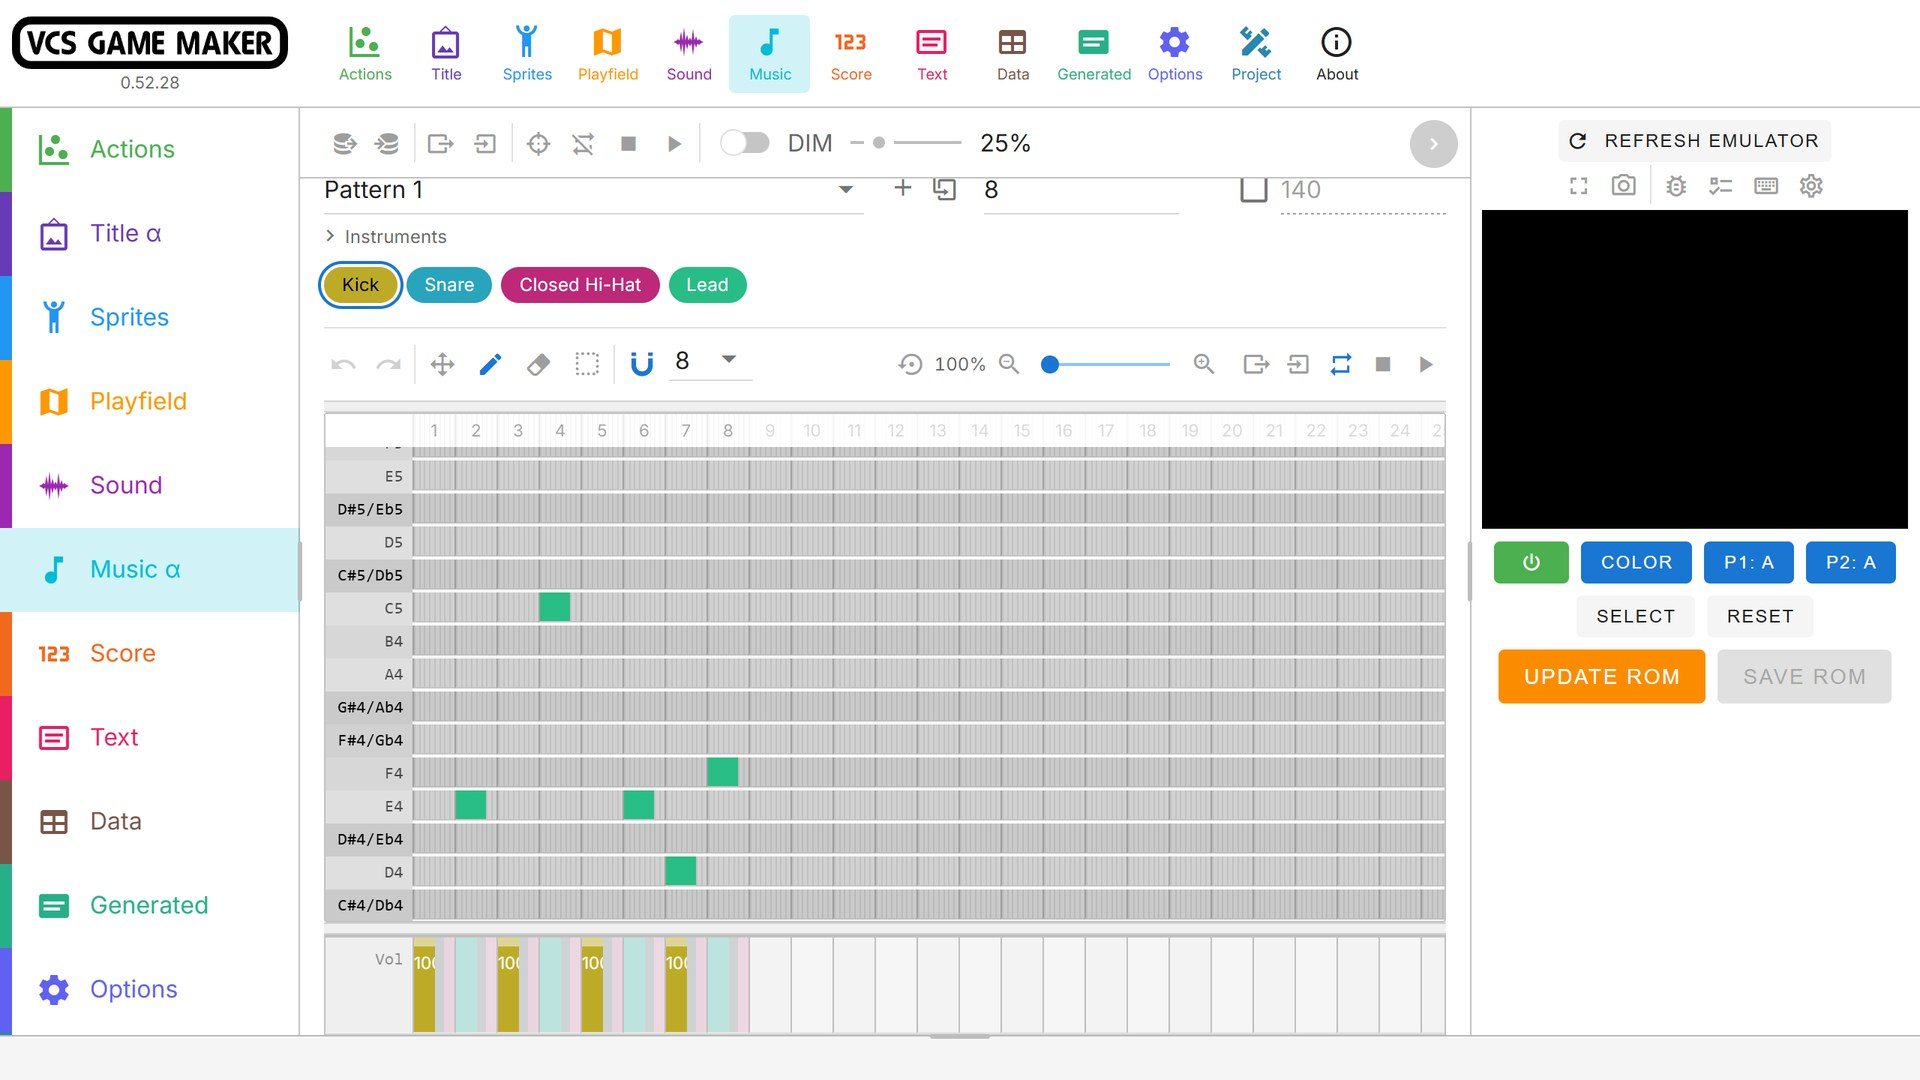
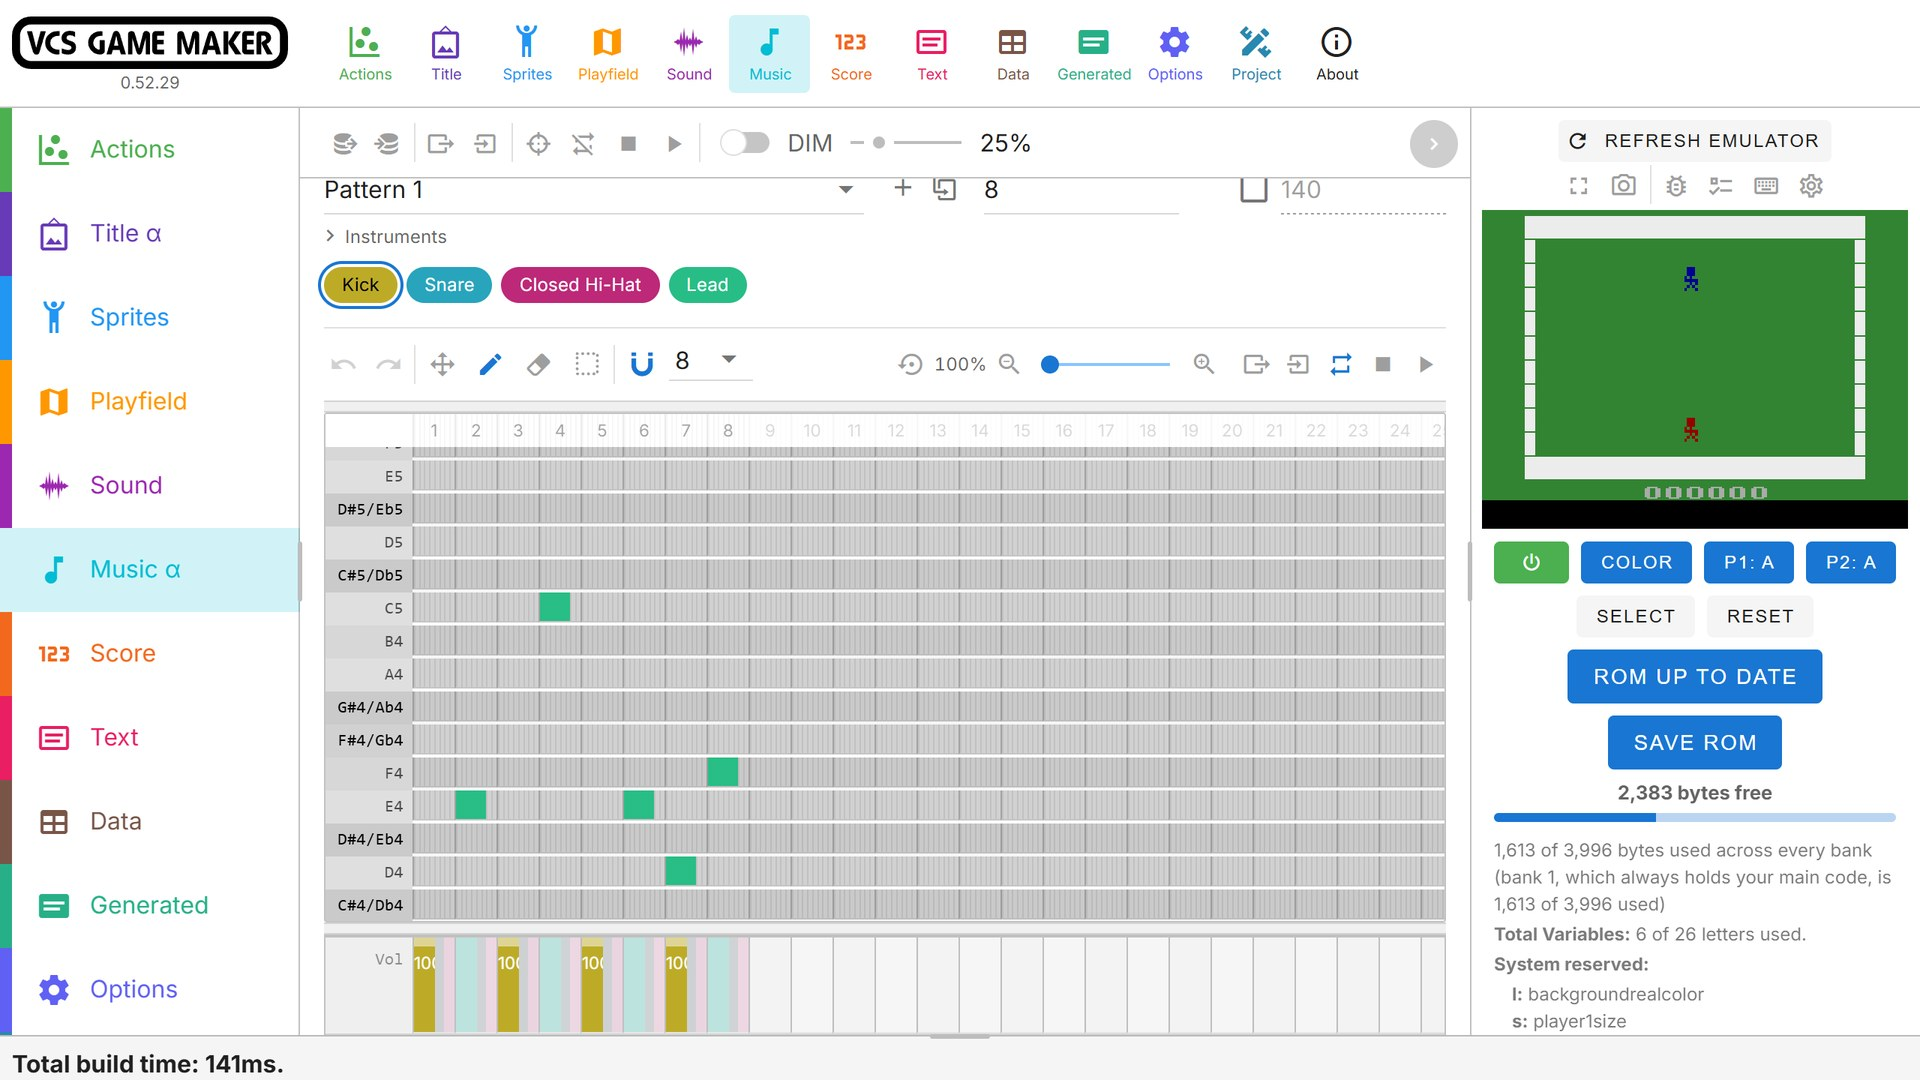
Web page: capitalize the UI mode names, new music screenshot with the default project running

Changed region(s): [[0.75, 0.1833, 1.0, 0.4889], [0.7812, 0.5806, 1.0, 0.9472], [0.0, 0.9778, 0.1562, 1.0]]

diff --git a/site/index.html b/site/index.html
@@ -227,120 +227,120 @@
             <figcaption>Default</figcaption>
           </figure>
           <figure>
-            <img src="view-dark.jpg" alt="VCS Game Maker in this view: Dark mode.">
-            <figcaption>Dark mode</figcaption>
+            <img src="view-dark.jpg" alt="VCS Game Maker in this view: Dark Mode.">
+            <figcaption>Dark Mode</figcaption>
           </figure>
           <figure>
-            <img src="view-subdued.jpg" alt="VCS Game Maker in this view: Subdued palette.">
-            <figcaption>Subdued palette</figcaption>
+            <img src="view-subdued.jpg" alt="VCS Game Maker in this view: Subdued Palette.">
+            <figcaption>Subdued Palette</figcaption>
           </figure>
           <figure>
-            <img src="view-subdued-dark.jpg" alt="VCS Game Maker in this view: Subdued palette and dark mode.">
-            <figcaption>Subdued palette and dark mode</figcaption>
+            <img src="view-subdued-dark.jpg" alt="VCS Game Maker in this view: Subdued Palette and Dark Mode.">
+            <figcaption>Subdued Palette and Dark Mode</figcaption>
           </figure>
           <figure>
-            <img src="view-contrast.jpg" alt="VCS Game Maker in this view: High contrast.">
-            <figcaption>High contrast</figcaption>
+            <img src="view-contrast.jpg" alt="VCS Game Maker in this view: High Contrast.">
+            <figcaption>High Contrast</figcaption>
           </figure>
           <figure>
-            <img src="view-contrast-dark.jpg" alt="VCS Game Maker in this view: High contrast and dark mode.">
-            <figcaption>High contrast and dark mode</figcaption>
+            <img src="view-contrast-dark.jpg" alt="VCS Game Maker in this view: High Contrast and Dark Mode.">
+            <figcaption>High Contrast and Dark Mode</figcaption>
           </figure>
           <figure>
-            <img src="view-expert.jpg" alt="VCS Game Maker in this view: Expert mode.">
-            <figcaption>Expert mode</figcaption>
+            <img src="view-expert.jpg" alt="VCS Game Maker in this view: Expert Mode.">
+            <figcaption>Expert Mode</figcaption>
           </figure>
           <figure>
-            <img src="view-expert-dark.jpg" alt="VCS Game Maker in this view: Expert mode, dark mode.">
-            <figcaption>Expert mode, dark mode</figcaption>
+            <img src="view-expert-dark.jpg" alt="VCS Game Maker in this view: Expert Mode, Dark Mode.">
+            <figcaption>Expert Mode, Dark Mode</figcaption>
           </figure>
           <figure>
-            <img src="view-expert-subdued.jpg" alt="VCS Game Maker in this view: Expert mode, subdued palette.">
-            <figcaption>Expert mode, subdued palette</figcaption>
+            <img src="view-expert-subdued.jpg" alt="VCS Game Maker in this view: Expert Mode, Subdued Palette.">
+            <figcaption>Expert Mode, Subdued Palette</figcaption>
           </figure>
           <figure>
-            <img src="view-expert-subdued-dark.jpg" alt="VCS Game Maker in this view: Expert mode, subdued palette and dark mode.">
-            <figcaption>Expert mode, subdued palette and dark mode</figcaption>
+            <img src="view-expert-subdued-dark.jpg" alt="VCS Game Maker in this view: Expert Mode, Subdued Palette and Dark Mode.">
+            <figcaption>Expert Mode, Subdued Palette and Dark Mode</figcaption>
           </figure>
           <figure>
-            <img src="view-expert-contrast.jpg" alt="VCS Game Maker in this view: Expert mode, high contrast.">
-            <figcaption>Expert mode, high contrast</figcaption>
+            <img src="view-expert-contrast.jpg" alt="VCS Game Maker in this view: Expert Mode, High Contrast.">
+            <figcaption>Expert Mode, High Contrast</figcaption>
           </figure>
           <figure>
-            <img src="view-expert-contrast-dark.jpg" alt="VCS Game Maker in this view: Expert mode, high contrast and dark mode.">
-            <figcaption>Expert mode, high contrast and dark mode</figcaption>
+            <img src="view-expert-contrast-dark.jpg" alt="VCS Game Maker in this view: Expert Mode, High Contrast and Dark Mode.">
+            <figcaption>Expert Mode, High Contrast and Dark Mode</figcaption>
           </figure>
           <figure>
-            <img src="view-expert-icons.jpg" alt="VCS Game Maker in this view: Expert mode, icons only.">
-            <figcaption>Expert mode, icons only</figcaption>
+            <img src="view-expert-icons.jpg" alt="VCS Game Maker in this view: Expert Mode, icons only.">
+            <figcaption>Expert Mode, icons only</figcaption>
           </figure>
           <figure>
-            <img src="view-expert-icons-dark.jpg" alt="VCS Game Maker in this view: Expert mode, icons only, dark mode.">
-            <figcaption>Expert mode, icons only, dark mode</figcaption>
+            <img src="view-expert-icons-dark.jpg" alt="VCS Game Maker in this view: Expert Mode, icons only, Dark Mode.">
+            <figcaption>Expert Mode, icons only, Dark Mode</figcaption>
           </figure>
           <figure>
-            <img src="view-expert-icons-subdued.jpg" alt="VCS Game Maker in this view: Expert mode, icons only, subdued palette.">
-            <figcaption>Expert mode, icons only, subdued palette</figcaption>
+            <img src="view-expert-icons-subdued.jpg" alt="VCS Game Maker in this view: Expert Mode, icons only, Subdued Palette.">
+            <figcaption>Expert Mode, icons only, Subdued Palette</figcaption>
           </figure>
           <figure>
-            <img src="view-expert-icons-subdued-dark.jpg" alt="VCS Game Maker in this view: Expert mode, icons only, subdued palette and dark mode.">
-            <figcaption>Expert mode, icons only, subdued palette and dark mode</figcaption>
+            <img src="view-expert-icons-subdued-dark.jpg" alt="VCS Game Maker in this view: Expert Mode, icons only, Subdued Palette and Dark Mode.">
+            <figcaption>Expert Mode, icons only, Subdued Palette and Dark Mode</figcaption>
           </figure>
           <figure>
-            <img src="view-expert-icons-contrast.jpg" alt="VCS Game Maker in this view: Expert mode, icons only, high contrast.">
-            <figcaption>Expert mode, icons only, high contrast</figcaption>
+            <img src="view-expert-icons-contrast.jpg" alt="VCS Game Maker in this view: Expert Mode, icons only, High Contrast.">
+            <figcaption>Expert Mode, icons only, High Contrast</figcaption>
           </figure>
           <figure>
-            <img src="view-expert-icons-contrast-dark.jpg" alt="VCS Game Maker in this view: Expert mode, icons only, high contrast and dark mode.">
-            <figcaption>Expert mode, icons only, high contrast and dark mode</figcaption>
+            <img src="view-expert-icons-contrast-dark.jpg" alt="VCS Game Maker in this view: Expert Mode, icons only, High Contrast and Dark Mode.">
+            <figcaption>Expert Mode, icons only, High Contrast and Dark Mode</figcaption>
           </figure>
           <figure>
             <img src="view-no-top.jpg" alt="VCS Game Maker in this view: Top toolbar hidden.">
             <figcaption>Top toolbar hidden</figcaption>
           </figure>
           <figure>
-            <img src="view-no-top-dark.jpg" alt="VCS Game Maker in this view: Top toolbar hidden, dark mode.">
-            <figcaption>Top toolbar hidden, dark mode</figcaption>
+            <img src="view-no-top-dark.jpg" alt="VCS Game Maker in this view: Top toolbar hidden, Dark Mode.">
+            <figcaption>Top toolbar hidden, Dark Mode</figcaption>
           </figure>
           <figure>
-            <img src="view-no-top-subdued.jpg" alt="VCS Game Maker in this view: Top toolbar hidden, subdued palette.">
-            <figcaption>Top toolbar hidden, subdued palette</figcaption>
+            <img src="view-no-top-subdued.jpg" alt="VCS Game Maker in this view: Top toolbar hidden, Subdued Palette.">
+            <figcaption>Top toolbar hidden, Subdued Palette</figcaption>
           </figure>
           <figure>
-            <img src="view-no-top-subdued-dark.jpg" alt="VCS Game Maker in this view: Top toolbar hidden, subdued palette and dark mode.">
-            <figcaption>Top toolbar hidden, subdued palette and dark mode</figcaption>
+            <img src="view-no-top-subdued-dark.jpg" alt="VCS Game Maker in this view: Top toolbar hidden, Subdued Palette and Dark Mode.">
+            <figcaption>Top toolbar hidden, Subdued Palette and Dark Mode</figcaption>
           </figure>
           <figure>
-            <img src="view-no-top-contrast.jpg" alt="VCS Game Maker in this view: Top toolbar hidden, high contrast.">
-            <figcaption>Top toolbar hidden, high contrast</figcaption>
+            <img src="view-no-top-contrast.jpg" alt="VCS Game Maker in this view: Top toolbar hidden, High Contrast.">
+            <figcaption>Top toolbar hidden, High Contrast</figcaption>
           </figure>
           <figure>
-            <img src="view-no-top-contrast-dark.jpg" alt="VCS Game Maker in this view: Top toolbar hidden, high contrast and dark mode.">
-            <figcaption>Top toolbar hidden, high contrast and dark mode</figcaption>
+            <img src="view-no-top-contrast-dark.jpg" alt="VCS Game Maker in this view: Top toolbar hidden, High Contrast and Dark Mode.">
+            <figcaption>Top toolbar hidden, High Contrast and Dark Mode</figcaption>
           </figure>
           <figure>
             <img src="view-no-left.jpg" alt="VCS Game Maker in this view: Left toolbar hidden.">
             <figcaption>Left toolbar hidden</figcaption>
           </figure>
           <figure>
-            <img src="view-no-left-dark.jpg" alt="VCS Game Maker in this view: Left toolbar hidden, dark mode.">
-            <figcaption>Left toolbar hidden, dark mode</figcaption>
+            <img src="view-no-left-dark.jpg" alt="VCS Game Maker in this view: Left toolbar hidden, Dark Mode.">
+            <figcaption>Left toolbar hidden, Dark Mode</figcaption>
           </figure>
           <figure>
-            <img src="view-no-left-subdued.jpg" alt="VCS Game Maker in this view: Left toolbar hidden, subdued palette.">
-            <figcaption>Left toolbar hidden, subdued palette</figcaption>
+            <img src="view-no-left-subdued.jpg" alt="VCS Game Maker in this view: Left toolbar hidden, Subdued Palette.">
+            <figcaption>Left toolbar hidden, Subdued Palette</figcaption>
           </figure>
           <figure>
-            <img src="view-no-left-subdued-dark.jpg" alt="VCS Game Maker in this view: Left toolbar hidden, subdued palette and dark mode.">
-            <figcaption>Left toolbar hidden, subdued palette and dark mode</figcaption>
+            <img src="view-no-left-subdued-dark.jpg" alt="VCS Game Maker in this view: Left toolbar hidden, Subdued Palette and Dark Mode.">
+            <figcaption>Left toolbar hidden, Subdued Palette and Dark Mode</figcaption>
           </figure>
           <figure>
-            <img src="view-no-left-contrast.jpg" alt="VCS Game Maker in this view: Left toolbar hidden, high contrast.">
-            <figcaption>Left toolbar hidden, high contrast</figcaption>
+            <img src="view-no-left-contrast.jpg" alt="VCS Game Maker in this view: Left toolbar hidden, High Contrast.">
+            <figcaption>Left toolbar hidden, High Contrast</figcaption>
           </figure>
           <figure>
-            <img src="view-no-left-contrast-dark.jpg" alt="VCS Game Maker in this view: Left toolbar hidden, high contrast and dark mode.">
-            <figcaption>Left toolbar hidden, high contrast and dark mode</figcaption>
+            <img src="view-no-left-contrast-dark.jpg" alt="VCS Game Maker in this view: Left toolbar hidden, High Contrast and Dark Mode.">
+            <figcaption>Left toolbar hidden, High Contrast and Dark Mode</figcaption>
           </figure>
           <figure>
             <img src="view-everything.jpg" alt="VCS Game Maker in this view: Everything!.">
